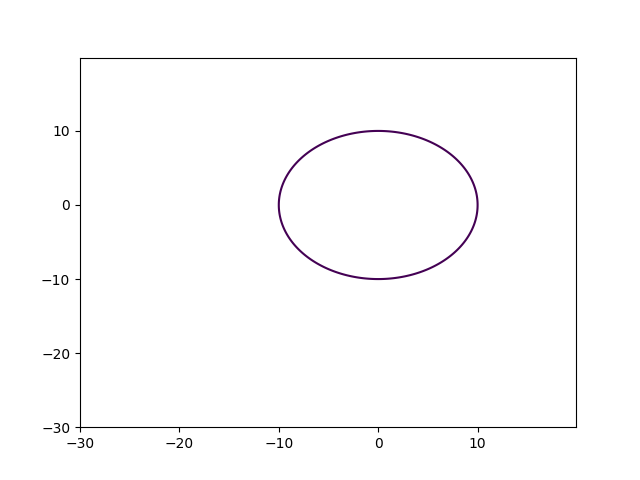
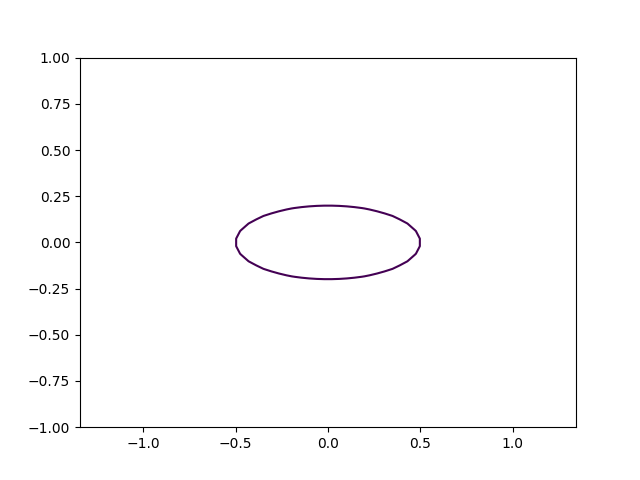
gftyhg

diff --git a/lab_6_task3.py b/lab_6_task3.py
@@ -2,18 +2,16 @@ import matplotlib.pyplot as plt
 import numpy as np
  
 def elipse_plotter():
-    a = 5
-    b = 2
-    x = np.arange(-3, 2, 0.1)
-    y = np.arange(-1, 2, 0.1)
- 
+    a = 0.5
+    b = 0.2
+    x = np.linspace(-1, 1, 50)
+    y = np.linspace(-1, 1, 50)
     X, Y = np.meshgrid(x, y)
- 
-    elips = x**2/a**2 + y**2/b**2 == 1
- 
+    elips = (X**2)/(a**2) + (Y**2)/(b**2) - 1
     plt.contour(X, Y, elips, levels=[0])
-
+    plt.axis("equal")
     plt.savefig("fig_task3.png")
+    
 
 if __name__ == "__main__":
     elipse_plotter()
